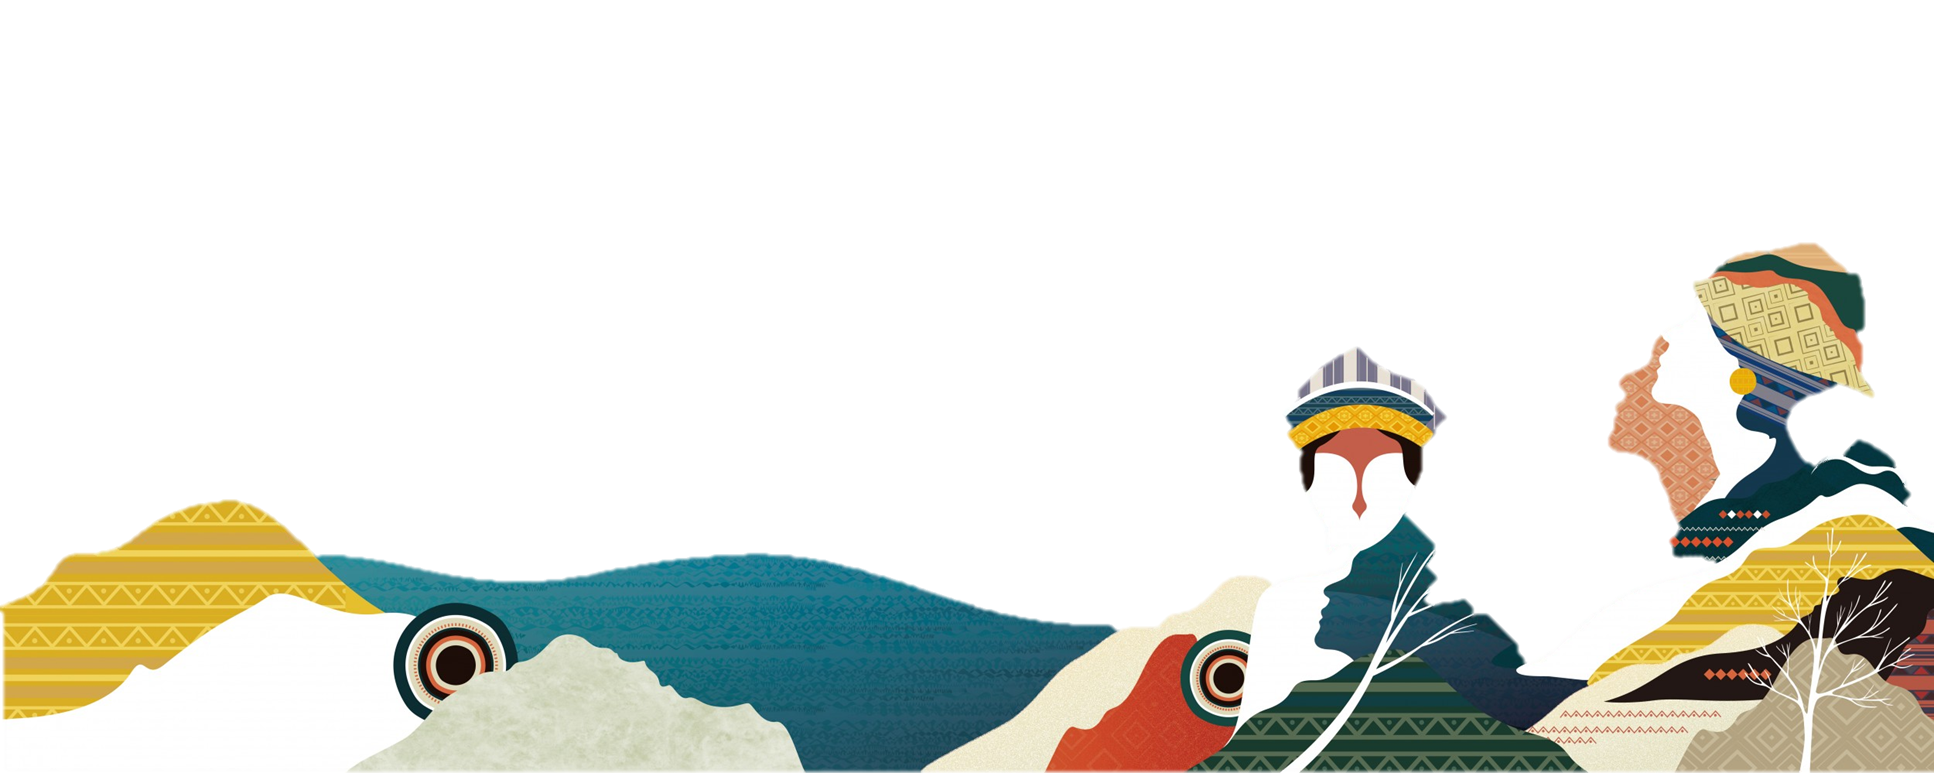
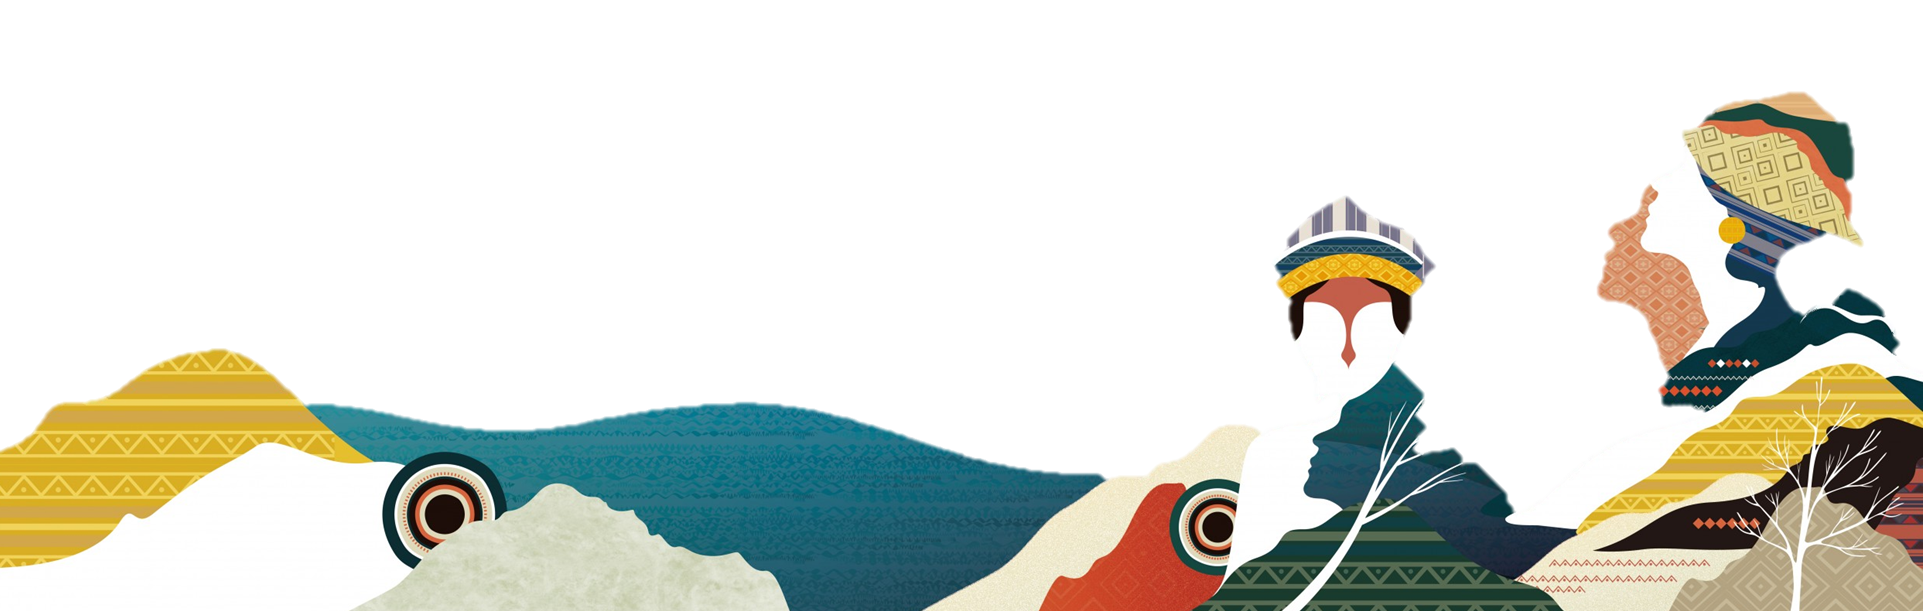
10/6第二次

Changed region(s): [[0.0, 0.1555, 1.0, 1.0], [0.5304, 0.9329, 0.5616, 0.964], [0.4992, 0.9018, 0.5304, 0.9329]]

diff --git a/index.html b/index.html
@@ -15,11 +15,15 @@
       <header class="title">
           <div class="container-fluid h-100 w-100">
               <div class="row h-100 justify-content:center align-items-center">
-                  <div class="col-12">
+                  <div class="col">
                     <div class="text">
                       <h1>歡迎來到Tsz的展示空間</h1>
-                      <p>Welcome to the exhibition space of Tsz</p>
-                  </div>
+                      <p>Welcome to the exhibition space of Tsz</p>    
+                      <div class="img">
+                        <img class="w-100"src="/image/totem-1.png" alt="">
+                      </div>                                  
+                    </div>
+                    
                 </div>                 
             </div>
           </div>
@@ -43,6 +47,12 @@
                 <li class="nav-item">
                   <a class="nav-link" href="#">Link</a>
                 </li>
+                <li class="nav-item">
+                  <a class="nav-link" href="#">Link</a>
+                </li>
+                <li class="nav-item">
+                  <a class="nav-link" href="#"data-bs-toggle="modal" data-bs-target="#exampleModal">註冊/登入</a>
+                </li>
               </ul>
               <form class="d-flex">
                 <input class="form-control me-2" type="search" placeholder="Search" aria-label="Search">
@@ -52,45 +62,65 @@
           </div>
         </nav>
       </div>
+      <!-- modal功能 -->
+<div class="modal fade" id="exampleModal" tabindex="-1" aria-labelledby="exampleModalLabel" aria-hidden="true">
+  <div class="modal-dialog modal-dialog-centered modal-dialog-scrollable">
+    <div class="modal-content">
+      <div class="modal-header">
+        <h3 class="modal-title" id="exampleModalLabel">登入/註冊</h3>
+        <button type="button" class="btn-close" data-bs-dismiss="modal" aria-label="Close"></button>
+      </div>
+      <div class="modal-body">
+        ...
+      </div>
+      <div class="modal-footer">
+        <button type="button" class="btn btn-secondary" data-bs-dismiss="modal">Close</button>
+        <button type="button" class="btn btn-primary">Save changes</button>
+      </div>
+    </div>
+  </div>
+</div>
       <!-- 輪播照片區 -->
-      <div class="container-fluid w-75 mt-5">
-        <div class="row">
-          <div class="col">
-            <div id="carouselExampleIndicators" class="carousel slide" data-bs-ride="carousel">
-              <div class="carousel-indicators">
-                <button type="button" data-bs-target="#carouselExampleIndicators" data-bs-slide-to="0" class="active" aria-current="true" aria-label="Slide 1"></button>
-                <button type="button" data-bs-target="#carouselExampleIndicators" data-bs-slide-to="1" aria-label="Slide 2"></button>
-                <button type="button" data-bs-target="#carouselExampleIndicators" data-bs-slide-to="2" aria-label="Slide 3"></button>
+      <div class="pic">
+        <div class="container-fluid w-75 pt-5 pb-5">
+          <div class="row">
+            <div class="col">
+              <div id="carouselExampleIndicators" class="carousel slide" data-bs-ride="carousel">
+                <div class="carousel-indicators">
+                  <button type="button" data-bs-target="#carouselExampleIndicators" data-bs-slide-to="0" class="active" aria-current="true" aria-label="Slide 1"></button>
+                  <button type="button" data-bs-target="#carouselExampleIndicators" data-bs-slide-to="1" aria-label="Slide 2"></button>
+                  <button type="button" data-bs-target="#carouselExampleIndicators" data-bs-slide-to="2" aria-label="Slide 3"></button>
+                </div>
+                <div class="carousel-inner">
+                  <div class="carousel-item active">
+                    <img src="/image/image-1.png" class="d-block w-100" alt="...">
+                  </div>
+                  <div class="carousel-item">
+                    <img src="/image/image-2.png" class="d-block w-100" alt="...">
+                  </div>
+                  <div class="carousel-item">
+                    <img src="/image/image-3.png" class="d-block w-100" alt="...">
+                  </div>
+                </div>
+                <button class="carousel-control-prev" type="button" data-bs-target="#carouselExampleIndicators" data-bs-slide="prev">
+                  <span class="carousel-control-prev-icon" aria-hidden="true"></span>
+                  <span class="visually-hidden">Previous</span>
+                </button>
+                <button class="carousel-control-next" type="button" data-bs-target="#carouselExampleIndicators" data-bs-slide="next">
+                  <span class="carousel-control-next-icon" aria-hidden="true"></span>
+                  <span class="visually-hidden">Next</span>
+                </button>
               </div>
-              <div class="carousel-inner">
-                <div class="carousel-item active">
-                  <img src="/image/image-1.png" class="d-block w-100" alt="...">
-                </div>
-                <div class="carousel-item">
-                  <img src="/image/image-2.png" class="d-block w-100" alt="...">
-                </div>
-                <div class="carousel-item">
-                  <img src="/image/image-3.png" class="d-block w-100" alt="...">
-                </div>
-              </div>
-              <button class="carousel-control-prev" type="button" data-bs-target="#carouselExampleIndicators" data-bs-slide="prev">
-                <span class="carousel-control-prev-icon" aria-hidden="true"></span>
-                <span class="visually-hidden">Previous</span>
-              </button>
-              <button class="carousel-control-next" type="button" data-bs-target="#carouselExampleIndicators" data-bs-slide="next">
-                <span class="carousel-control-next-icon" aria-hidden="true"></span>
-                <span class="visually-hidden">Next</span>
-              </button>
             </div>
           </div>
         </div>
       </div>
       <!-- 作品展示區 -->
-      <div class="container-fluid">
-        <div class="row row-cols-1 row-cols-sm-2 row-cols-md-4 row-cols-lg-6 m-5">
-          <div class="col">
-            <div class="card">
-              <img src="..." class="card-img-top" alt="...">
+      <div class="container-fluid w-75">
+        <div class="row row-cols-1 row-cols-md-2 justify-content-around mt-3">
+          <div class="col mt-2">
+            <div class="card h-100">
+              <img src="/image/tank-1.png" class="card-img-top w-100" alt="...">
               <div class="card-body">
                 <h5 class="card-title">Card title</h5>
                 <p class="card-text">Some quick example text to build on the card title and make up the bulk of the card's content.</p>
@@ -98,9 +128,9 @@
               </div>
             </div>
           </div>
-          <div class="col">
-            <div class="card">
-              <img src="..." class="card-img-top" alt="...">
+          <div class="col mt-2">
+            <div class="card h-100">
+              <img src="/image/tank-2.png" class="card-img-top w-100" alt="...">
               <div class="card-body">
                 <h5 class="card-title">Card title</h5>
                 <p class="card-text">Some quick example text to build on the card title and make up the bulk of the card's content.</p>
@@ -108,9 +138,9 @@
               </div>
             </div>
           </div>
-          <div class="col">
-            <div class="card">
-              <img src="..." class="card-img-top" alt="...">
+          <div class="col mt-2">
+            <div class="card h-100">
+              <img src="/image/tank-3.png" class="card-img-top w-100" alt="...">
               <div class="card-body">
                 <h5 class="card-title">Card title</h5>
                 <p class="card-text">Some quick example text to build on the card title and make up the bulk of the card's content.</p>
@@ -118,9 +148,9 @@
               </div>
             </div>
           </div>
-          <div class="col">
-            <div class="card">
-              <img src="..." class="card-img-top" alt="...">
+          <div class="col mt-2">
+            <div class="card h-100">
+              <img src="/image/tank-4.png" class="card-img-top w-100" alt="...">
               <div class="card-body">
                 <h5 class="card-title">Card title</h5>
                 <p class="card-text">Some quick example text to build on the card title and make up the bulk of the card's content.</p>
@@ -128,9 +158,9 @@
               </div>
             </div>
           </div>
-          <div class="col">
-            <div class="card">
-              <img src="..." class="card-img-top" alt="...">
+          <div class="col mt-2">
+            <div class="card h-100">
+              <img src="/image/124.png" class="card-img-top w-100" alt="...">
               <div class="card-body">
                 <h5 class="card-title">Card title</h5>
                 <p class="card-text">Some quick example text to build on the card title and make up the bulk of the card's content.</p>
@@ -138,9 +168,9 @@
               </div>
             </div>
           </div>
-          <div class="col">
-            <div class="card">
-              <img src="..." class="card-img-top" alt="...">
+          <div class="col mt-2">
+            <div class="card h-100">
+              <img src="/image/156146.png" class="card-img-top w-100" alt="...">
               <div class="card-body">
                 <h5 class="card-title">Card title</h5>
                 <p class="card-text">Some quick example text to build on the card title and make up the bulk of the card's content.</p>
@@ -151,7 +181,7 @@
         </div>
       </div>
       <footer>
-        <div class="container h-100">
+        <div class="container-fluid h-100 mt-5">
           <div class="row h-100 justify-content-center align-items-center">
             <div class="col">
               <div class="text">

diff --git a/product.html b/product.html
@@ -1,0 +1,20 @@
+<!doctype html>
+<html lang="zh">
+  <head>
+    <!-- Required meta tags -->
+    <meta charset="utf-8">
+    <meta name="viewport" content="width=device-width, initial-scale=1">
+    <title></title>
+    <link rel="preconnect" href="https://fonts.googleapis.com">
+    <link rel="preconnect" href="https://fonts.gstatic.com" crossorigin>
+    <link href="https://fonts.googleapis.com/css2?family=Noto+Sans+TC:wght@100&display=swap" rel="stylesheet">
+    <link rel="stylesheet" href="./css/bootstrap.min.css">
+    <link rel="stylesheet" href="./style/style.css">
+  </head>
+  <body>
+      <img src="https://picsum.photos/id/684/600/400" alt="">
+    
+    <script src="js/popper.min.js"></script>
+    <script src="js/bootstrap.min.js"></script>
+  </body>
+</html>

diff --git a/style/style.css b/style/style.css
@@ -8,16 +8,13 @@
 .title {
   width: 100%;
   height: 50vh;
-  background-image: url(/image/totem-1.png);
-  -o-object-fit: cover;
-     object-fit: cover;
 }
 
-.title .text {
+.title .container-fluid .text {
   text-align: center;
 }
 
-.title .text p {
+.title .container-fluid .text p {
   text-align: center;
 }
 
@@ -30,5 +27,9 @@ footer {
 footer .text {
   text-align: center;
   color: blanchedalmond;
+}
+
+.pic {
+  background-color: blanchedalmond;
 }
 /*# sourceMappingURL=style.css.map */

diff --git a/style/style.scss b/style/style.scss
@@ -6,12 +6,13 @@
 .title {
   width: 100%;
   height: 50vh;
-  background-image: url(/image/totem-1.png);
-  object-fit: cover;
-  .text {
-    text-align: center;
-    p {
+  .container-fluid {
+    // position: absolute;
+    .text {
       text-align: center;
+      p {
+        text-align: center;
+      }
     }
   }
 }
@@ -23,4 +24,7 @@ footer {
     text-align: center;
     color: blanchedalmond;
   }
+}
+.pic {
+  background-color: blanchedalmond;
 }
